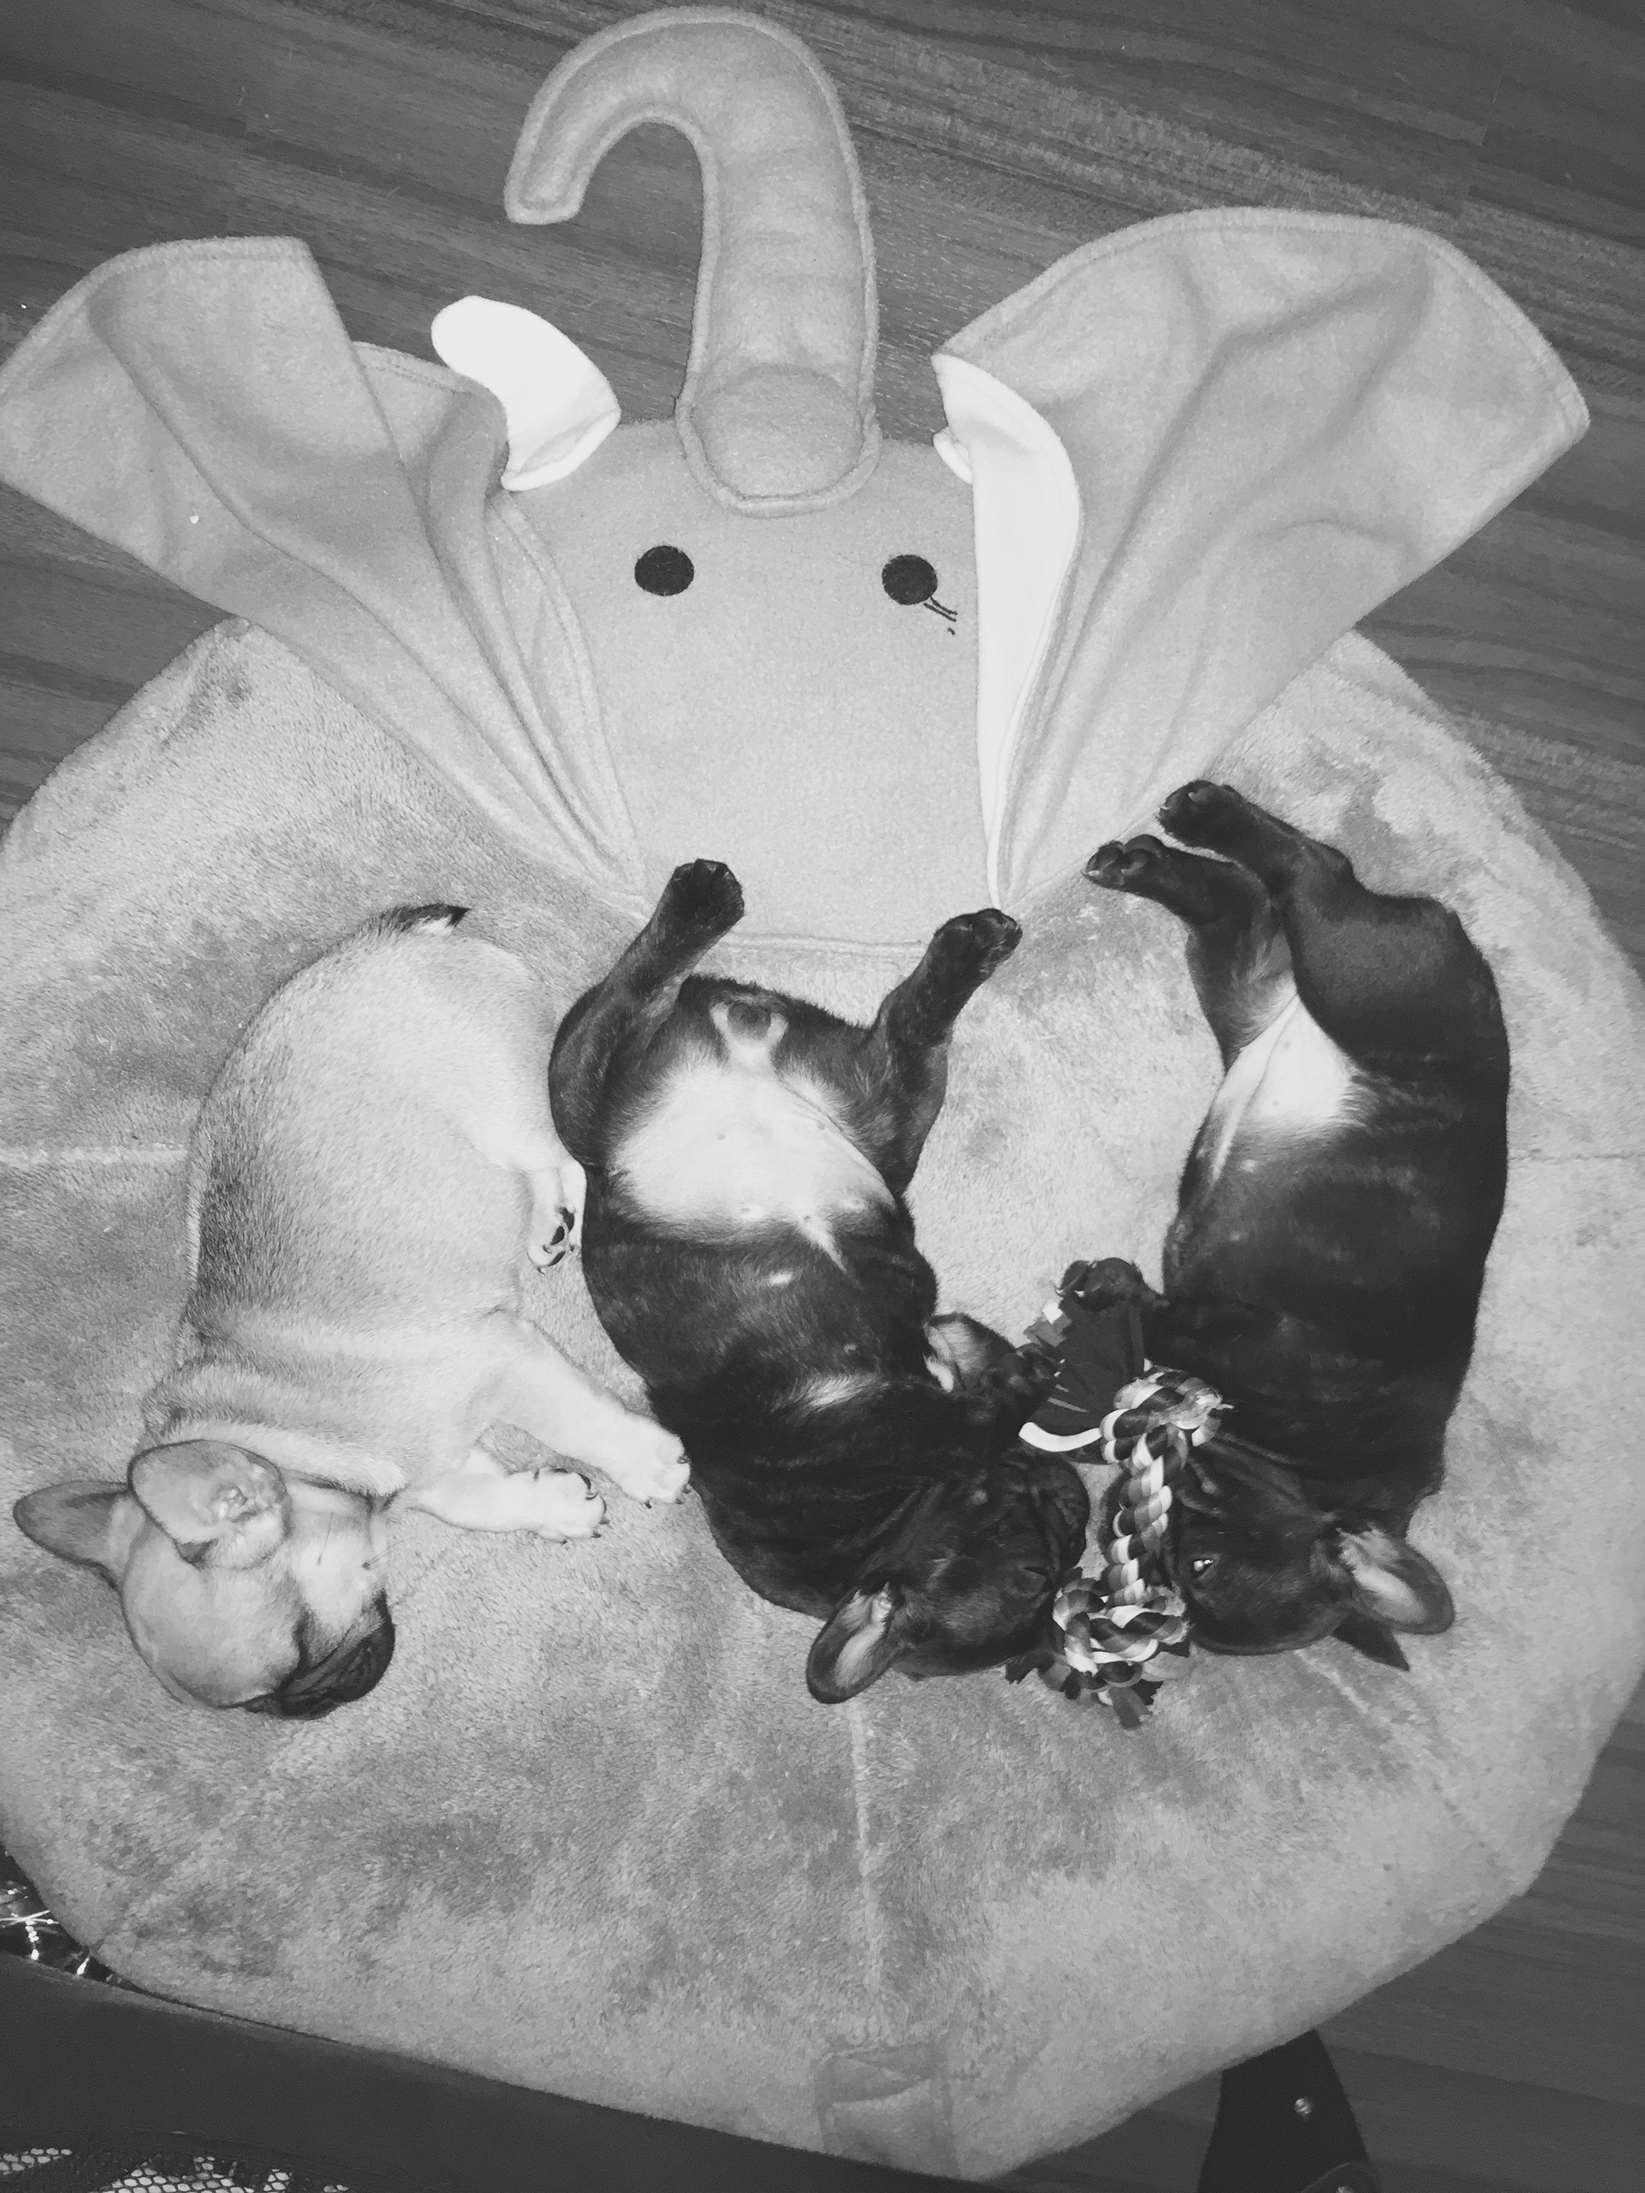
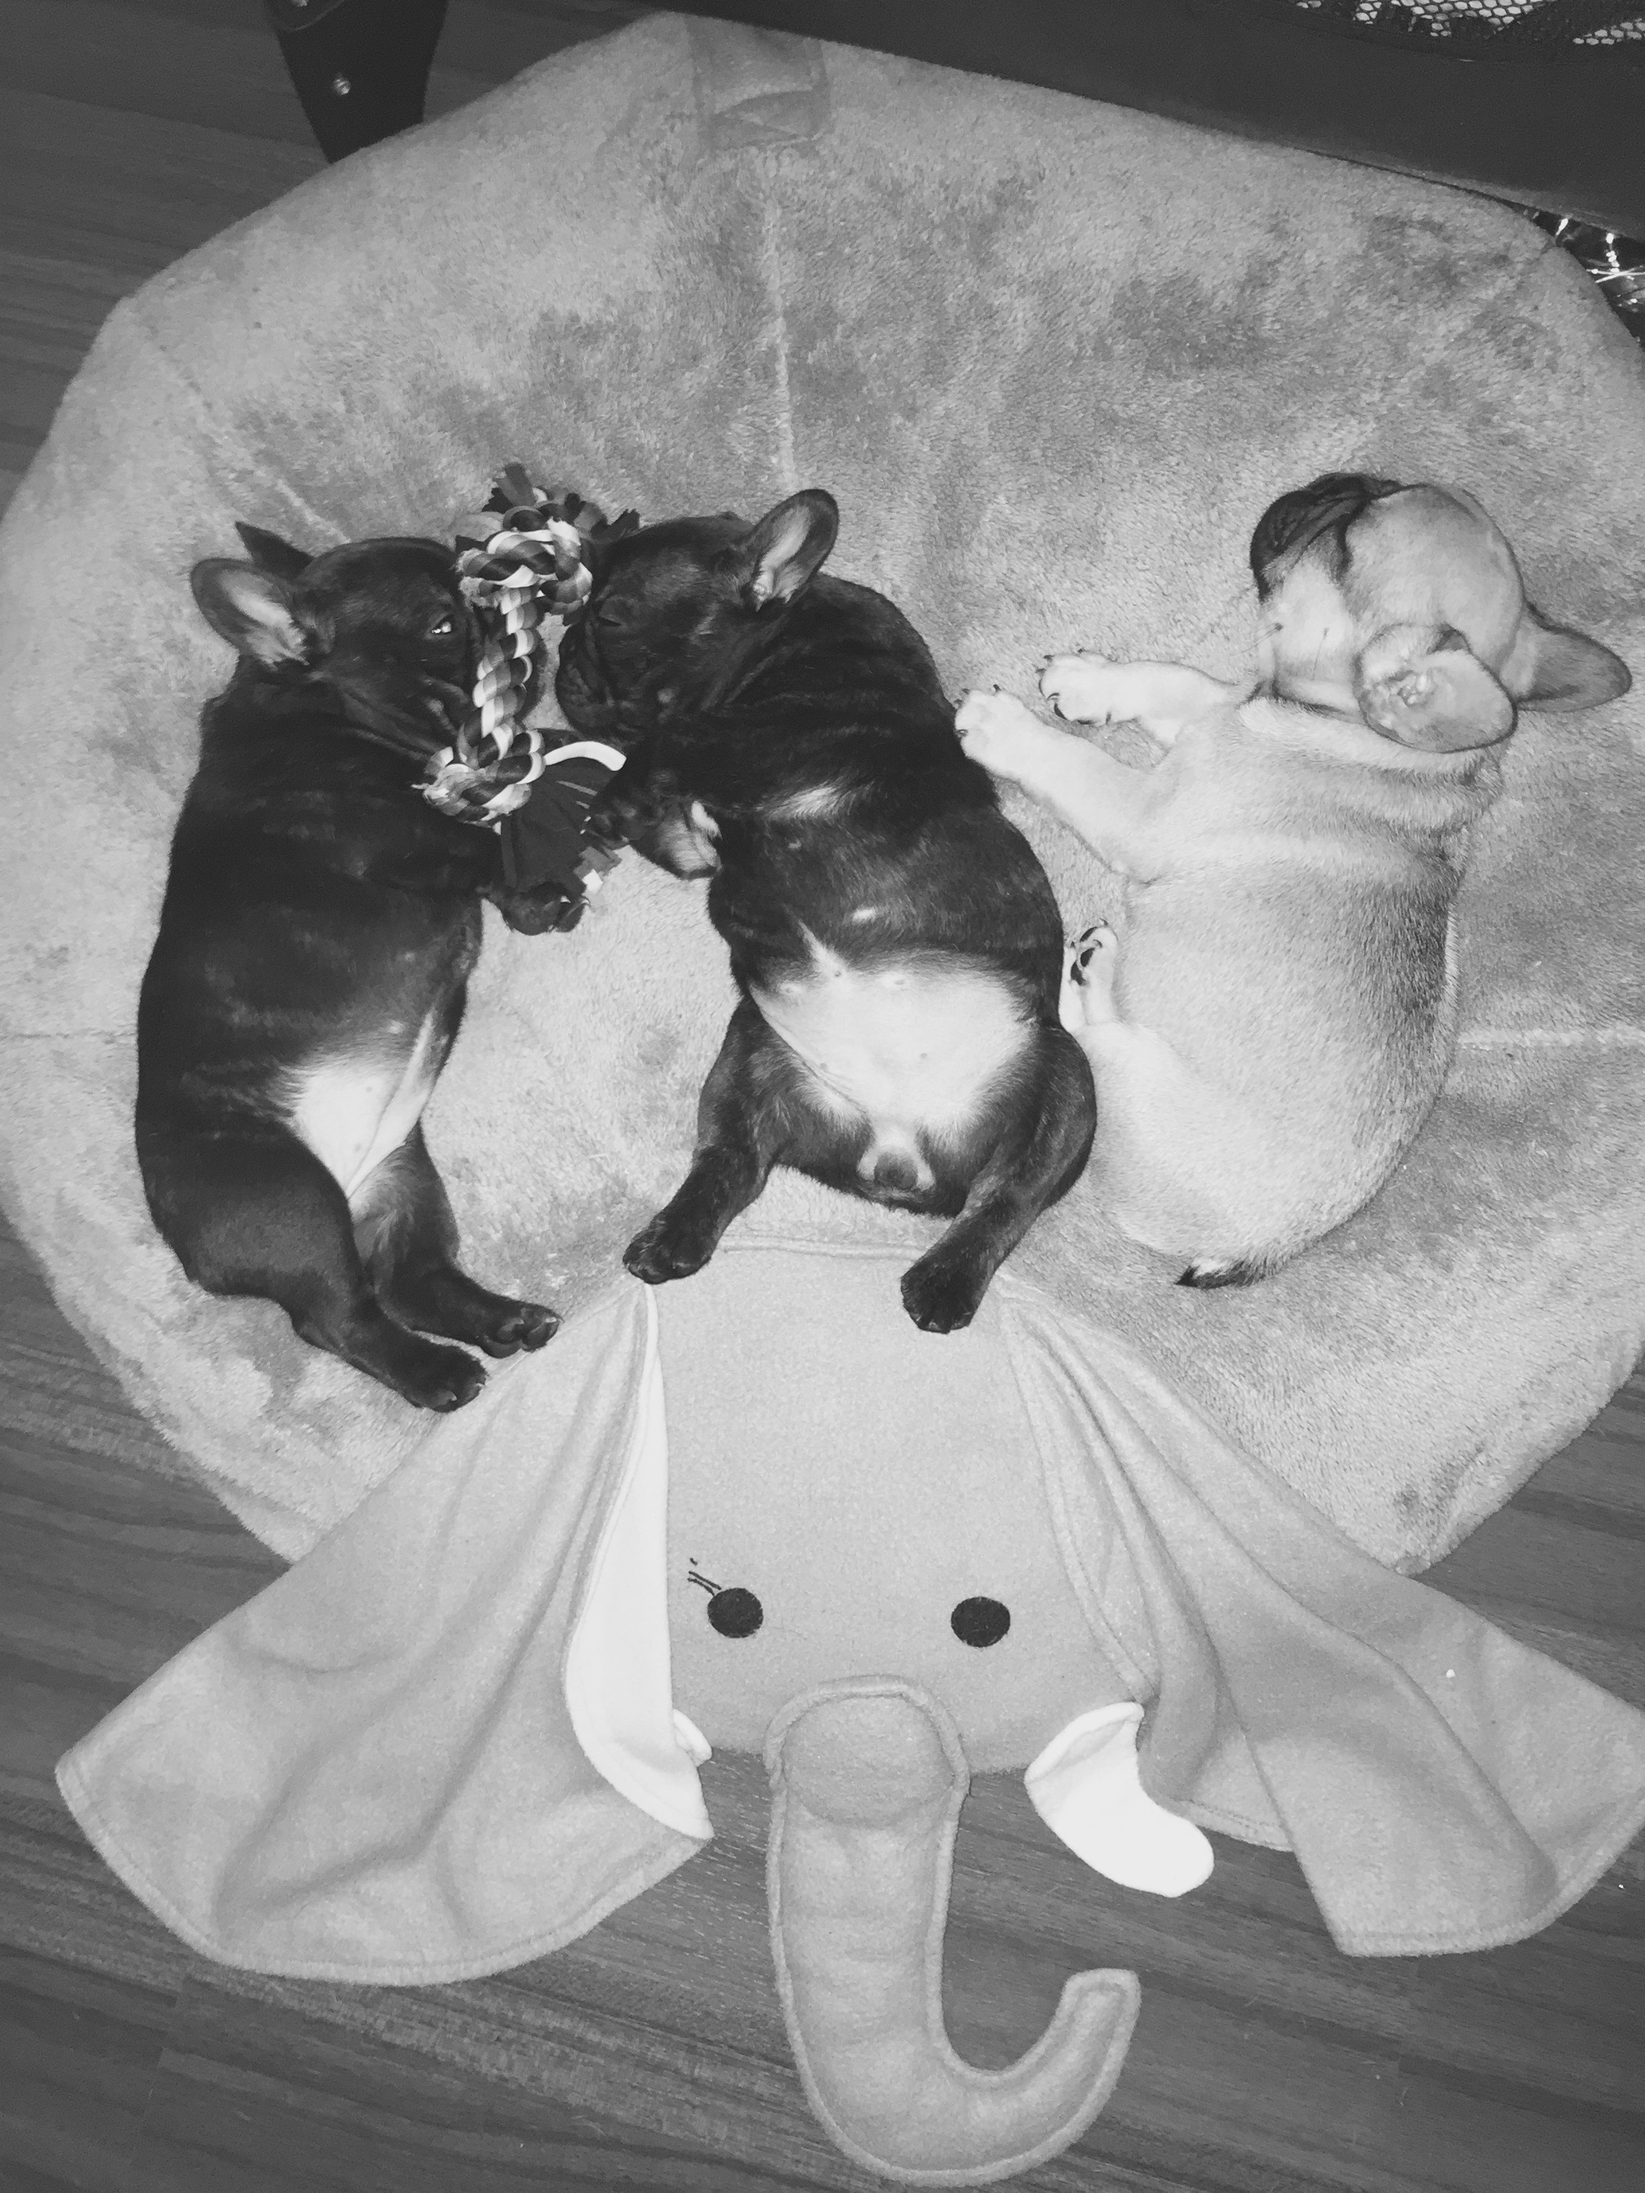
change slideshow pictures

diff --git a/index.html b/index.html
@@ -94,16 +94,16 @@
               <img data-u="image" src="images/IMG_0526.JPG" />
             </div>
             <div style="display: none;">
-              <img data-u="image" src="images/IMG_0528.JPG" />
+              <img data-u="image" src="images/IMG_0522.JPG" />
             </div>
             <div style="display: none;">
               <img data-u="image" src="images/IMG_0529.JPG" />
             </div>
           </div>
           <!-- Bullet Navigator -->
-          <div class= "navSlider" data-u="navigator" class="jssorb13" data-autocenter="1">
+          <div id= "navSlider" data-u="navigator" class="jssorb13" data-autocenter="1">
             <!-- bullet navigator item prototype -->
-            <div class="navSliderBullet" data-u="prototype"></div>
+            <div id="navSliderBullet" data-u="prototype"></div>
           </div>
         </div>
       </div>
@@ -142,19 +142,19 @@
             <!-- Slide Show -->
             <div class="slides" data-u="slides" style="width: 780px; height: 580px;">
               <div style="display: none;">
-                <img data-u="image" src="images/IMG_0538.JPG" />
+                <img data-u="image" src="images/IMG_0537.JPG" />
               </div>
               <div style="display: none;">
-                <img data-u="image" src="images/IMG_0539.JPG" />
+                <img data-u="image" src="images/IMG_0545.JPG" />
               </div>
               <div style="display: none;">
-                <img data-u="image" src="images/IMG_0540.JPG" />
+                <img data-u="image" src="images/IMG_0525.JPG" />
               </div>
             </div>
             <!-- Bullet Navigator -->
-            <div class= "navSlider" data-u="navigator" class="jssorb13" data-autocenter="1">
+            <div id= "navSlider" data-u="navigator" class="jssorb13" data-autocenter="1">
               <!-- bullet navigator item prototype -->
-              <div class="navSliderBullet" data-u="prototype"></div>
+              <div id="navSliderBullet" data-u="prototype"></div>
             </div>
           </div>
         </div>

diff --git a/css/navbar.scss b/css/navbar.scss
@@ -1,4 +1,9 @@
 
+@mixin calc($property, $expression) {
+  #{$property}: -webkit-calc(#{$expression});
+  #{$property}: calc(#{$expression});
+}
+
 //////////////////////////////////////////////////////////////
 /////////////////////   Navigation Bar   /////////////////////
 //////////////////////////////////////////////////////////////
@@ -12,7 +17,10 @@
 	position: relative;
 	margin: 0;
 	padding: 0;
-
+	height: 100%;
+	width: 100%;
+	overflow-x: hidden;
+	text-align:center;
 	//!++ why isn't this applied to button?
 	//color: red;
 	//text-shadow: 2px 2px #ff0000;
@@ -26,7 +34,8 @@
 		padding: 0;
 		position: fixed; top: 0;
 		z-index: 10;
-		@include background-image(linear-gradient( #fff, #ddd ));
+		//@include background-image(linear-gradient( #eee, #fff ));
+		background-color: white;
 
 		img#headerLogo
 		{
@@ -75,22 +84,28 @@
 	img#headerImageHook
 	{
 		display: block;
-		width:100%;
-		height:auto;
-		padding: 0px;
+		width: auto;
+		height: 100%;
+		min-width: 100%;
+		padding: 0;
+		margin: 0;
+		margin-right: 50%;
 	}
 
 	h1
 	{
 		display: block;
+    width: 100%;
 		color: white;
 		font-style: italic;
 		padding: 0;
-		width: 100%;
 		margin: 0 auto;
 		text-align: center;
+    font-size: 100%;
+    line-height: 1.0;
 		position: absolute;
-		bottom: 40px;
+		top: 0;
+		border: 1px solid red;
 	}
 
 	h2
@@ -102,7 +117,8 @@
 		margin: 0 auto;
 		text-align: center;
 		position: absolute;
-		bottom: 10px;
+		@include calc(top, "1em");
+		border: 1px solid gray;
 	}
 
 }

diff --git a/css/global.scss b/css/global.scss
@@ -16,6 +16,12 @@ $themeColor2: #00B64F;
 $themeColor3: #62DA97;
 $themeColor4: #007633;
 
+$h1Height: 3em;
+$h2Height: 2em;
+$h3Height: 1.4em;
+$h4Height: 1.2em;
+$h5Height: 1.10em;
+$h6Height: 0.75em;
 
 //////////////////////////////////////////////////////////////
 //////////////////////   Global Style   //////////////////////
@@ -75,19 +81,20 @@ h1, h2, h3, h4, h5, h6 {
   color: black;
 }
 
-h1 { font-size: 3em; }
-h2 { font-size: 2em; }
-h3 { font-size: 1.4em; }
-h4 { font-size: 1.12em; }
-h5 { font-size: 1.10em; }
-h6 { font-size: .75em; }
 
-/* Width based font scaling
-h1{ font-size: 1.0vw; }
-h2{ font-size: 0.8vw; }
-h3{ font-size: 0.65vw; }
-h4{ font-size: 0.4vw; }
-*/
+
+h1 { font-size: $h1Height; }
+h2 { font-size: $h2Height; }
+h3 { font-size: $h3Height; }
+h4 { font-size: $h4Height; }
+h5 { font-size: $h5Height; }
+h6 { font-size: $h6Height; }
+
+// Width based font scaling
+//h1{ font-size: 1.0vw; }
+//h2{ font-size: 0.8vw; }
+//h3{ font-size: 0.65vw; }
+//h4{ font-size: 0.4vw; }
 
 //////////////////////////////////////////////////////////////
 ////////////////////   List Properties   /////////////////////
